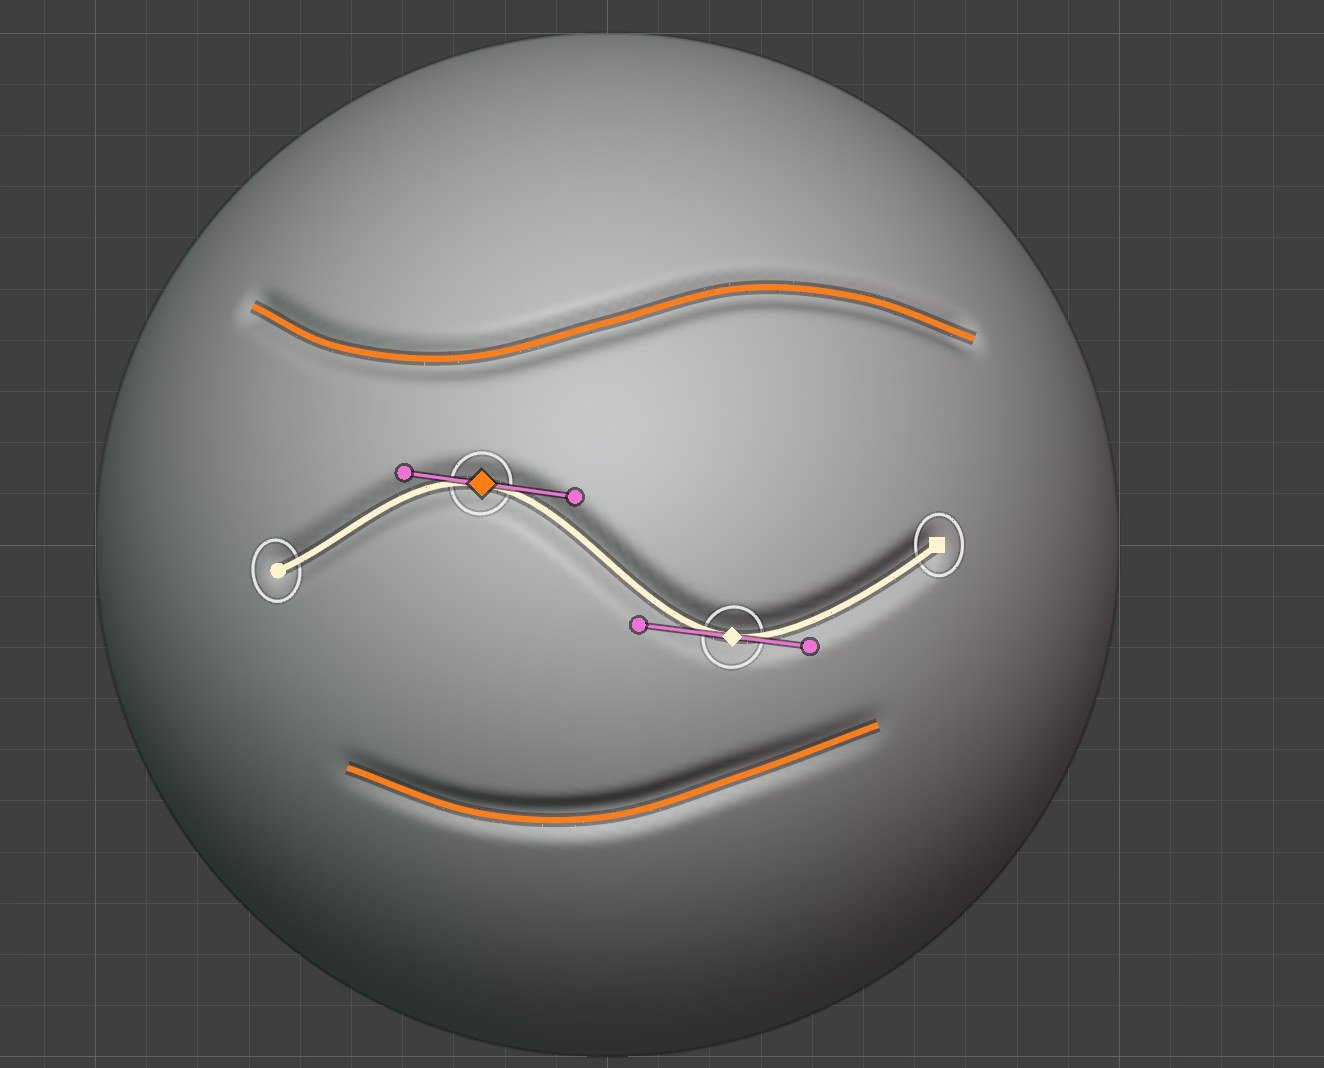
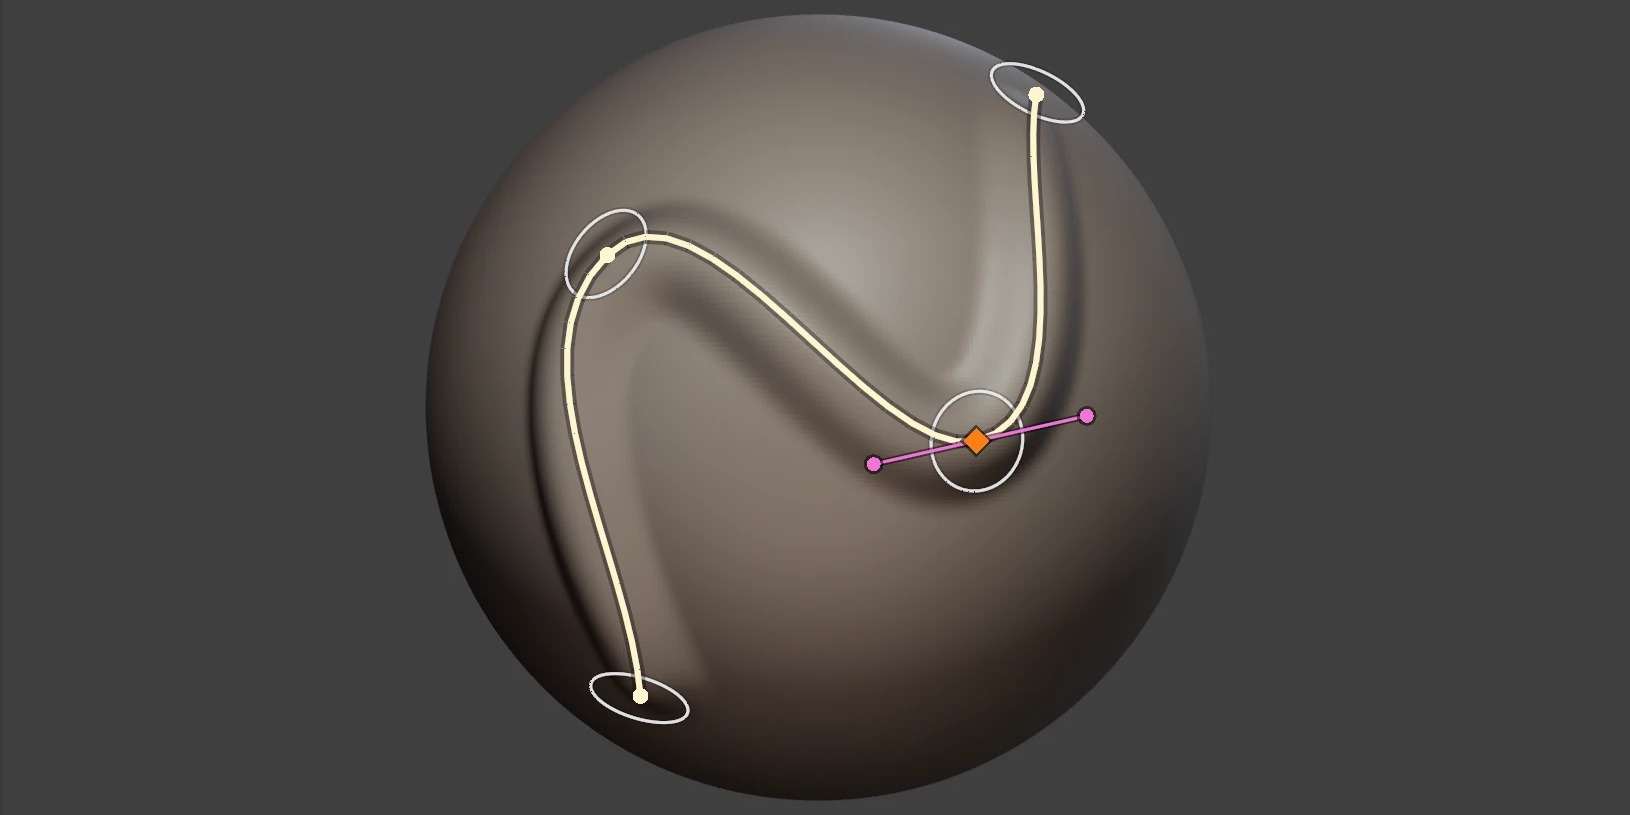
New hero image; mention the Shortcuts cheat sheet
- Front page: Mark's sculpted sphere with a carved surface curve, cropped to
  2:1.
- Get Started and Keyboard Shortcuts point to the cheat sheet in the Stroke
  panel.

diff --git a/docs/quick_start.rst b/docs/quick_start.rst
@@ -31,7 +31,8 @@ That's it. The curve stays on the mesh, so you can :ref:`edit it<drawing_curves>
    :alt: The Stroke panel with 3D curves on
 
 With 3D curves on, the Stroke panel shows the settings for new points, a :ref:`list of the mesh's curves<curve_list>`,
-the **Draw Curve** button (and **−** beside it, to stroke inverted), and a place to :ref:`import a curve object<importing_curves>`.
+the **Draw Curve** button (and **−** beside it, to stroke inverted), a place to :ref:`import a curve object<importing_curves>`,
+and **Shortcuts**, a cheat sheet of the :ref:`keys<keyboard_shortcuts>` that opens when you click it.
 
 .. important::
 

diff --git a/docs/keyboard_shortcuts.rst b/docs/keyboard_shortcuts.rst
@@ -8,6 +8,8 @@ These work in the 3D Viewport while a brush on the *Curve* stroke method is in u
 They are the same keys as Blender's own paint curves, which they take over while 3D curves are on; turn 3D curves off and
 Blender's 2D paint curves have them again.
 
+The same keys are listed in Blender too: open **Shortcuts** at the bottom of the Stroke panel's 3D curve settings.
+
 Left and right mouse buttons are shown for Blender's default *Select with Left* setting, and swap if you select with the right
 mouse button. On a Mac, **Cmd** can be used in place of **Ctrl** for adding points, undo and inverted strokes.
 
